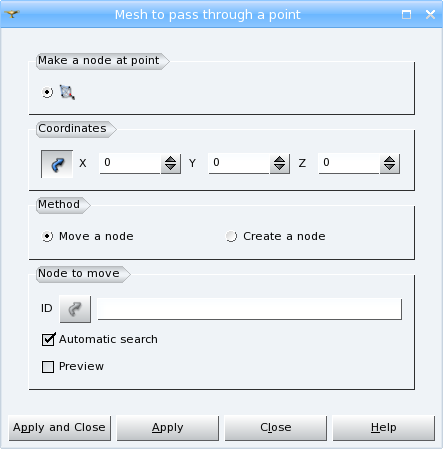
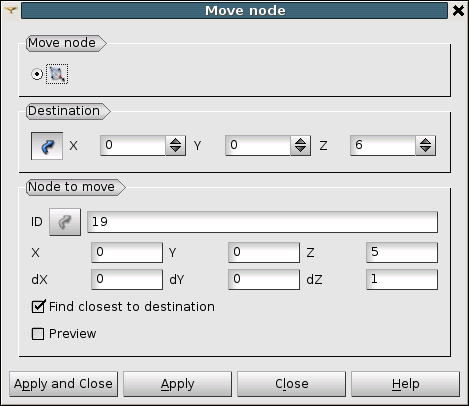
Issue 0020755: EDF 1279 MESH : 'Mesh to Pass Through a Point' enhancement

Changed region(s): [[0.0, 0.0, 1.0, 1.0]]

diff --git a/src/SMESHGUI/SMESH_msg_en.ts b/src/SMESHGUI/SMESH_msg_en.ts
@@ -432,7 +432,7 @@
         </message>
         <message>
             <source>MEN_MESH_THROU_POINT</source>
-            <translation>Mesh to Pass Through a Point</translation>
+            <translation>Move Node</translation>
         </message>
         <message>
             <source>MEN_MIN_ANG</source>
@@ -2375,7 +2375,7 @@ Consider saving your work before application crash</translation>
         </message>
         <message>
             <source>STB_MESH_THROU_POINT</source>
-            <translation>Mesh to pass through a point</translation>
+            <translation>Move Node</translation>
         </message>
         <message>
             <source>STB_MIN_ANG</source>
@@ -2889,7 +2889,7 @@ Consider saving your work before application crash</translation>
         </message>
         <message>
             <source>TOP_MESH_THROU_POINT</source>
-            <translation>Mesh to pass through a point</translation>
+            <translation>Move Node</translation>
         </message>
         <message>
             <source>TOP_MIN_ANG</source>
@@ -4425,27 +4425,23 @@ Please specify them and try again</translation>
         <name>SMESHGUI_MakeNodeAtPointDlg</name>
         <message>
             <source>AUTO_SEARCH</source>
-            <translation>Automatic search</translation>
+            <translation>Find closest to destination</translation>
         </message>
         <message>
             <source>CAPTION</source>
-            <translation>Mesh to pass through a point</translation>
+            <translation>Move node</translation>
         </message>
         <message>
-            <source>CREATE_NEW_METHOD</source>
-            <translation>Create a node</translation>
+            <source>DESTINATION</source>
+            <translation>Destination</translation>
         </message>
         <message>
-            <source>MESH_PASS_THROUGH_POINT</source>
-            <translation>Make a node at point</translation>
+            <source>MOVE_NODE</source>
+            <translation>Move node</translation>
         </message>
         <message>
             <source>METHOD</source>
             <translation>Method</translation>
-        </message>
-        <message>
-            <source>MOVE_EXISTING_METHOD</source>
-            <translation>Move a node</translation>
         </message>
         <message>
             <source>NODE_2MOVE</source>
@@ -4770,17 +4766,6 @@ It is impossible to read point coordinates from file</translation>
         <message>
             <source>NONE</source>
             <translation>&lt;None></translation>
-        </message>
-    </context>
-    <context>
-        <name>SMESHGUI_MoveNodesDlg</name>
-        <message>
-            <source>CAPTION</source>
-            <translation>Move node</translation>
-        </message>
-        <message>
-            <source>NODE_ID_IS_NOT_DEFINED</source>
-            <translation>Node ID is not defined</translation>
         </message>
     </context>
     <context>

diff --git a/src/SMESHGUI/SMESHGUI_MakeNodeAtPointDlg.h b/src/SMESHGUI/SMESHGUI_MakeNodeAtPointDlg.h
@@ -36,7 +36,6 @@ class QGroupBox;
 class QLineEdit;
 class QPushButton;
 class QCheckBox;
-class QRadioButton;
 class SMESHGUI_SpinBox;
 class SMESHGUI_MeshEditPreview;
 class SMESHGUI_MakeNodeAtPointDlg;
@@ -98,11 +97,15 @@ private:
   SMESHGUI_SpinBox*             myX;
   SMESHGUI_SpinBox*             myY;
   SMESHGUI_SpinBox*             myZ;
-  QRadioButton*                 myMoveRBtn;
-  QRadioButton*                 myCreateRBtn;
   QGroupBox*                    myNodeToMoveGrp;
   QPushButton*                  myIdBtn;
   QLineEdit*                    myId;
+  SMESHGUI_SpinBox*             myCurrentX;
+  SMESHGUI_SpinBox*             myCurrentY;
+  SMESHGUI_SpinBox*             myCurrentZ;
+  SMESHGUI_SpinBox*             myDX;
+  SMESHGUI_SpinBox*             myDY;
+  SMESHGUI_SpinBox*             myDZ;
   QCheckBox*                    myAutoSearchChkBox;
   QCheckBox*                    myPreviewChkBox;
 
